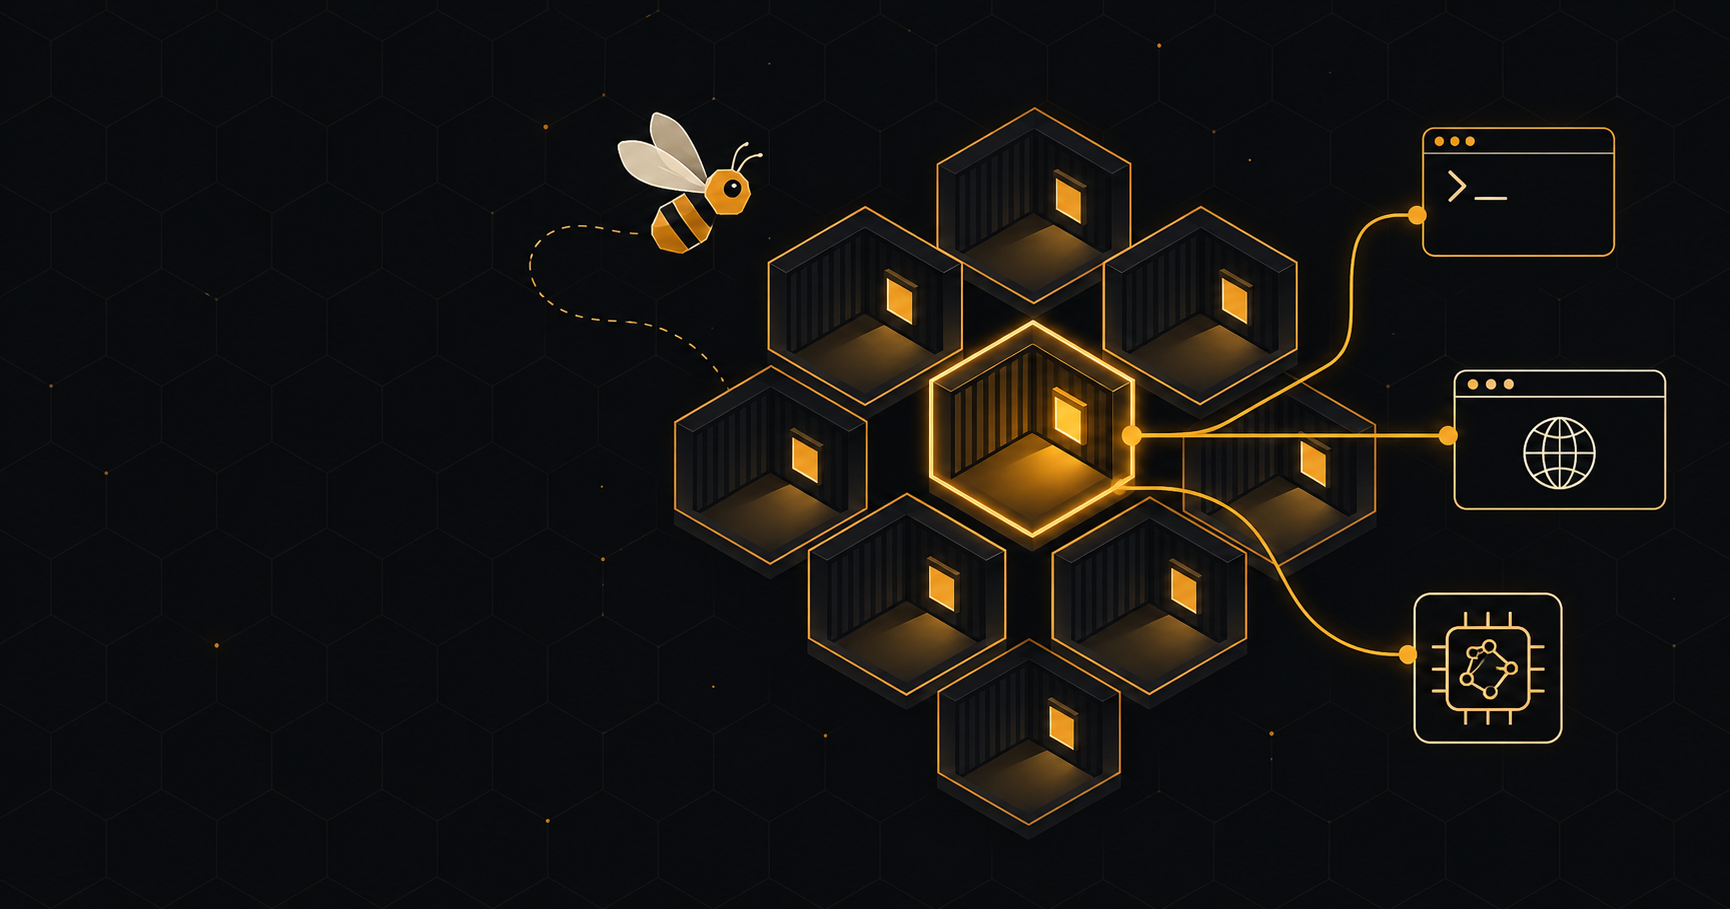
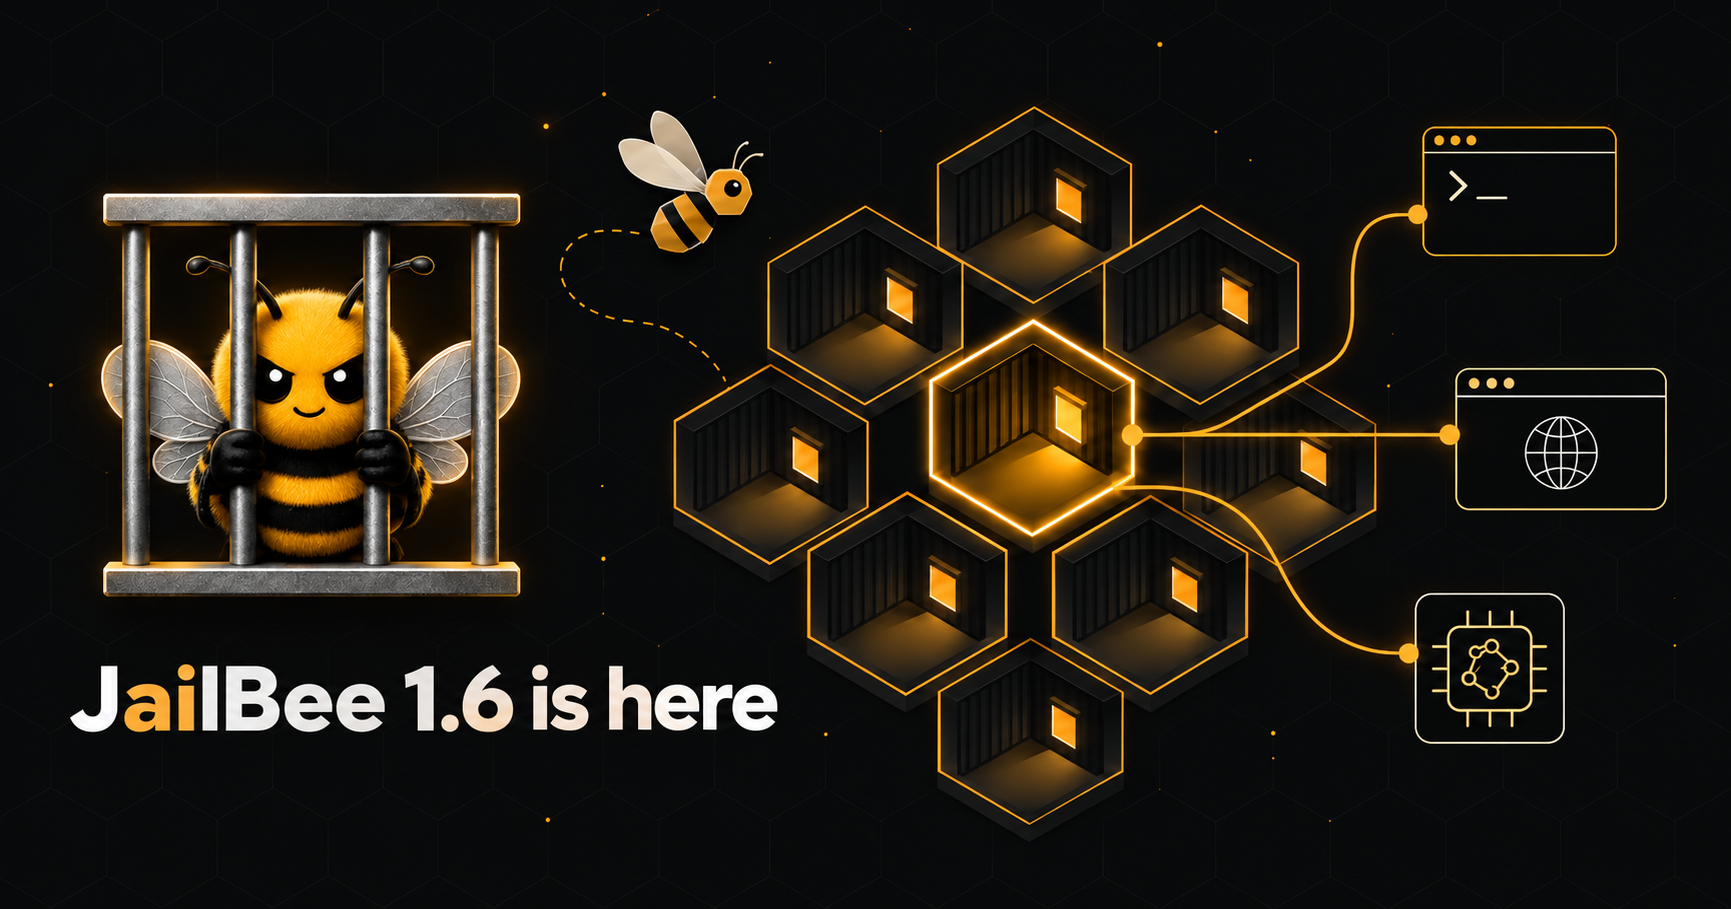
docs(news): use the 1.6 feature image with the title

diff --git a/website/news/posts/2026-10-02-jailbee-1-6.md b/website/news/posts/2026-10-02-jailbee-1-6.md
@@ -3,7 +3,7 @@ title: JailBee 1.6 is here
 date: 2026-10-02
 summary: Claude Code on other providers' models, a remote GUI over SSH, and a dashboard that knows what your agents are up to.
 image: /assets/news/jailbee-1-6.png
-image_alt: A glowing honeycomb of container cells with a bee flying in, connected to a terminal, a browser and a chip icon
+image_alt: A bee behind bars beside the text "JailBee 1.6 is here" and a glowing honeycomb of container cells linked to a terminal, a browser and a chip icon
 ---
 
 JailBee 1.6 is about reach. The coding agent inside your container is no
